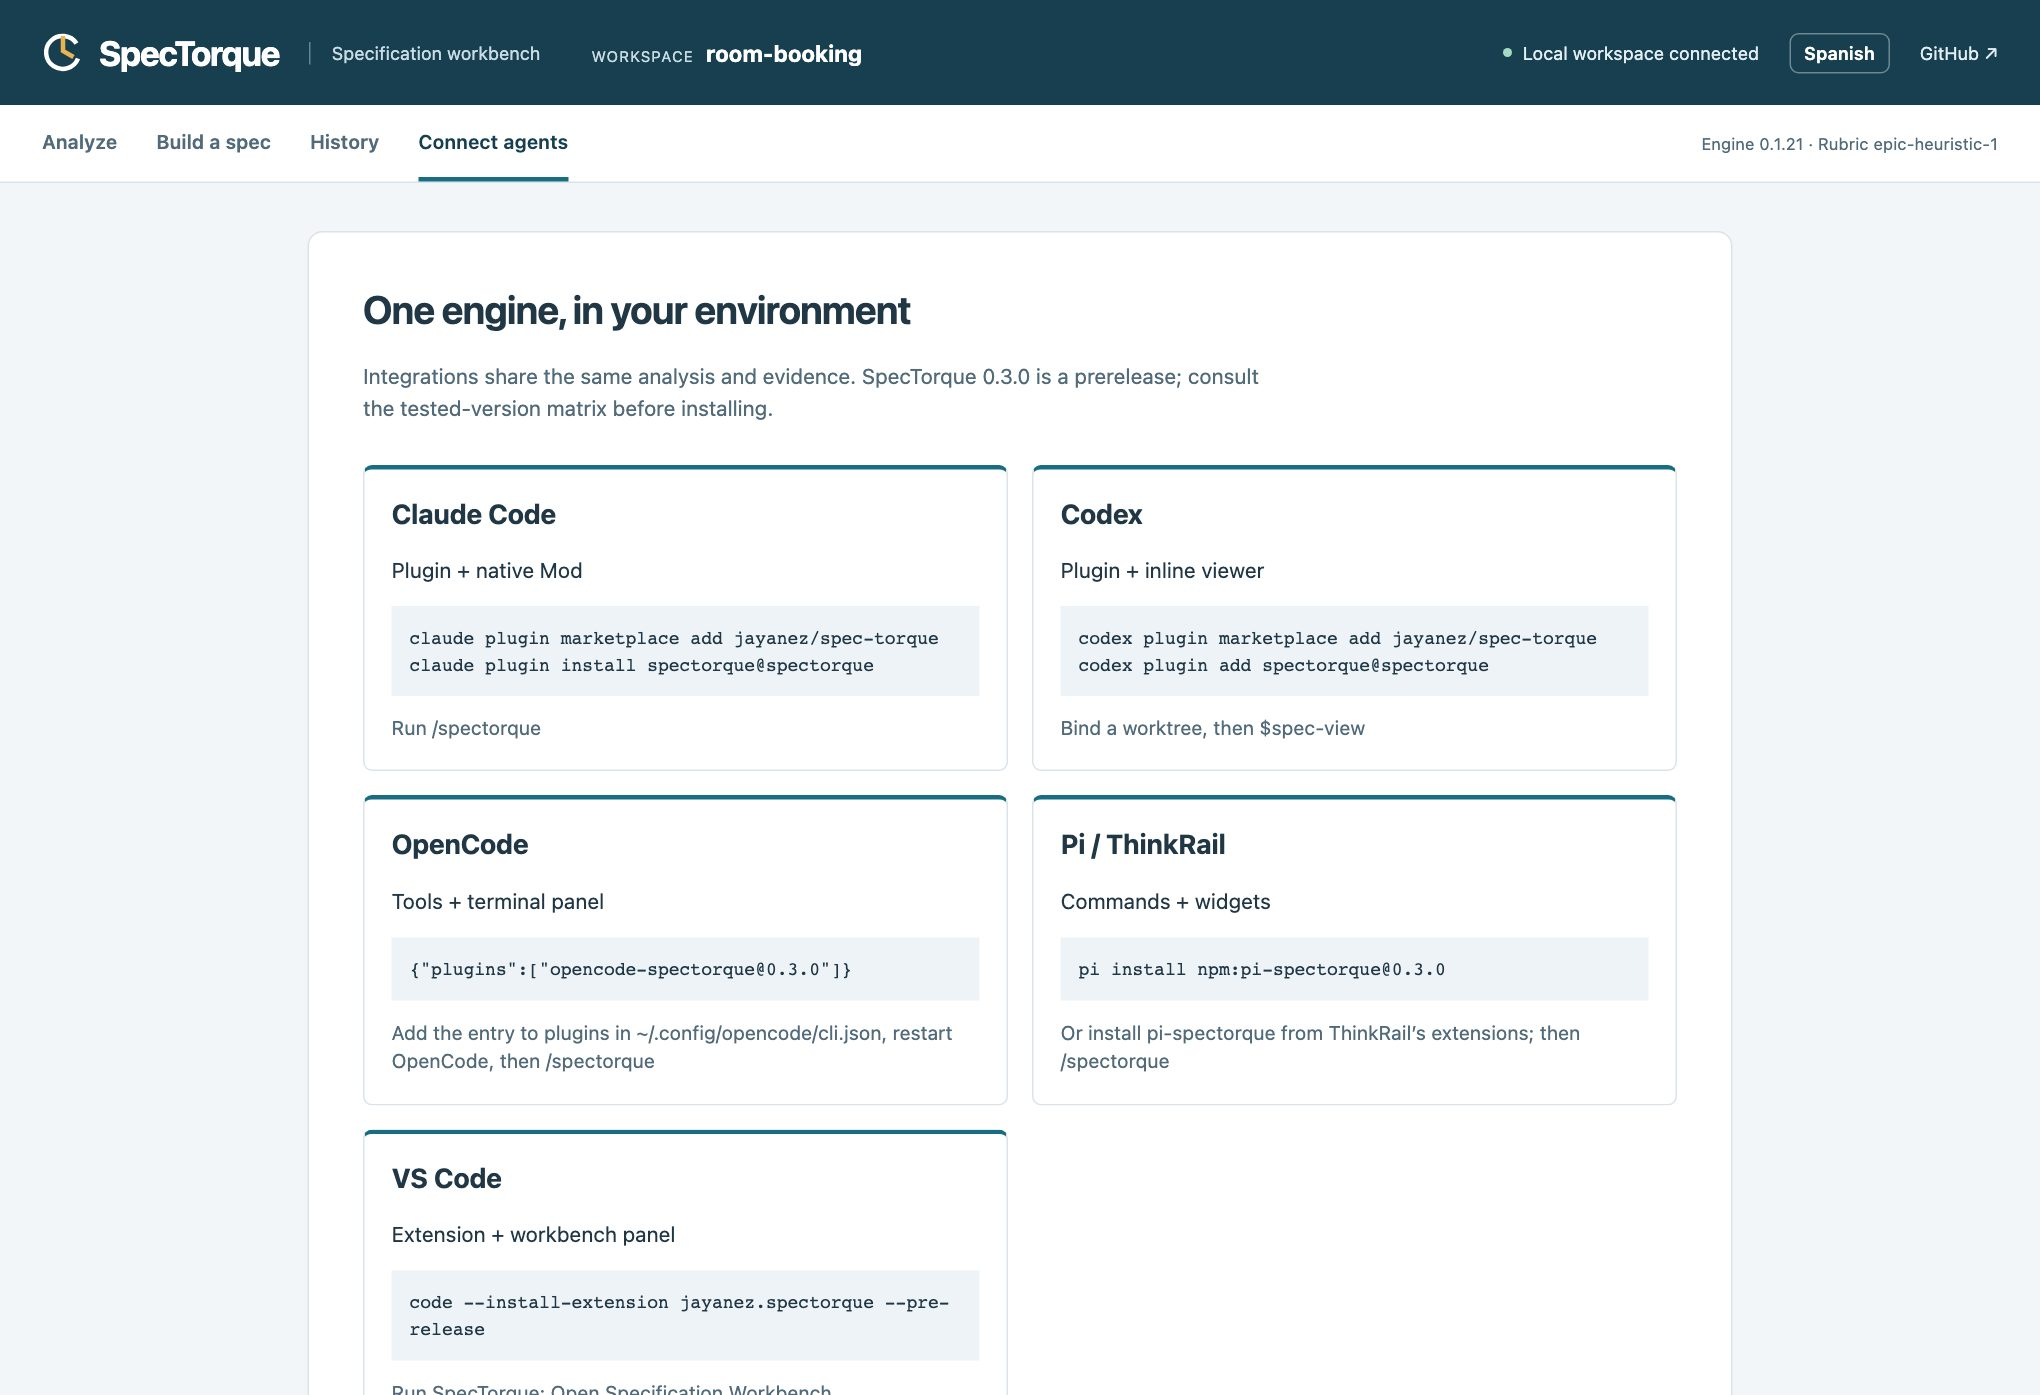
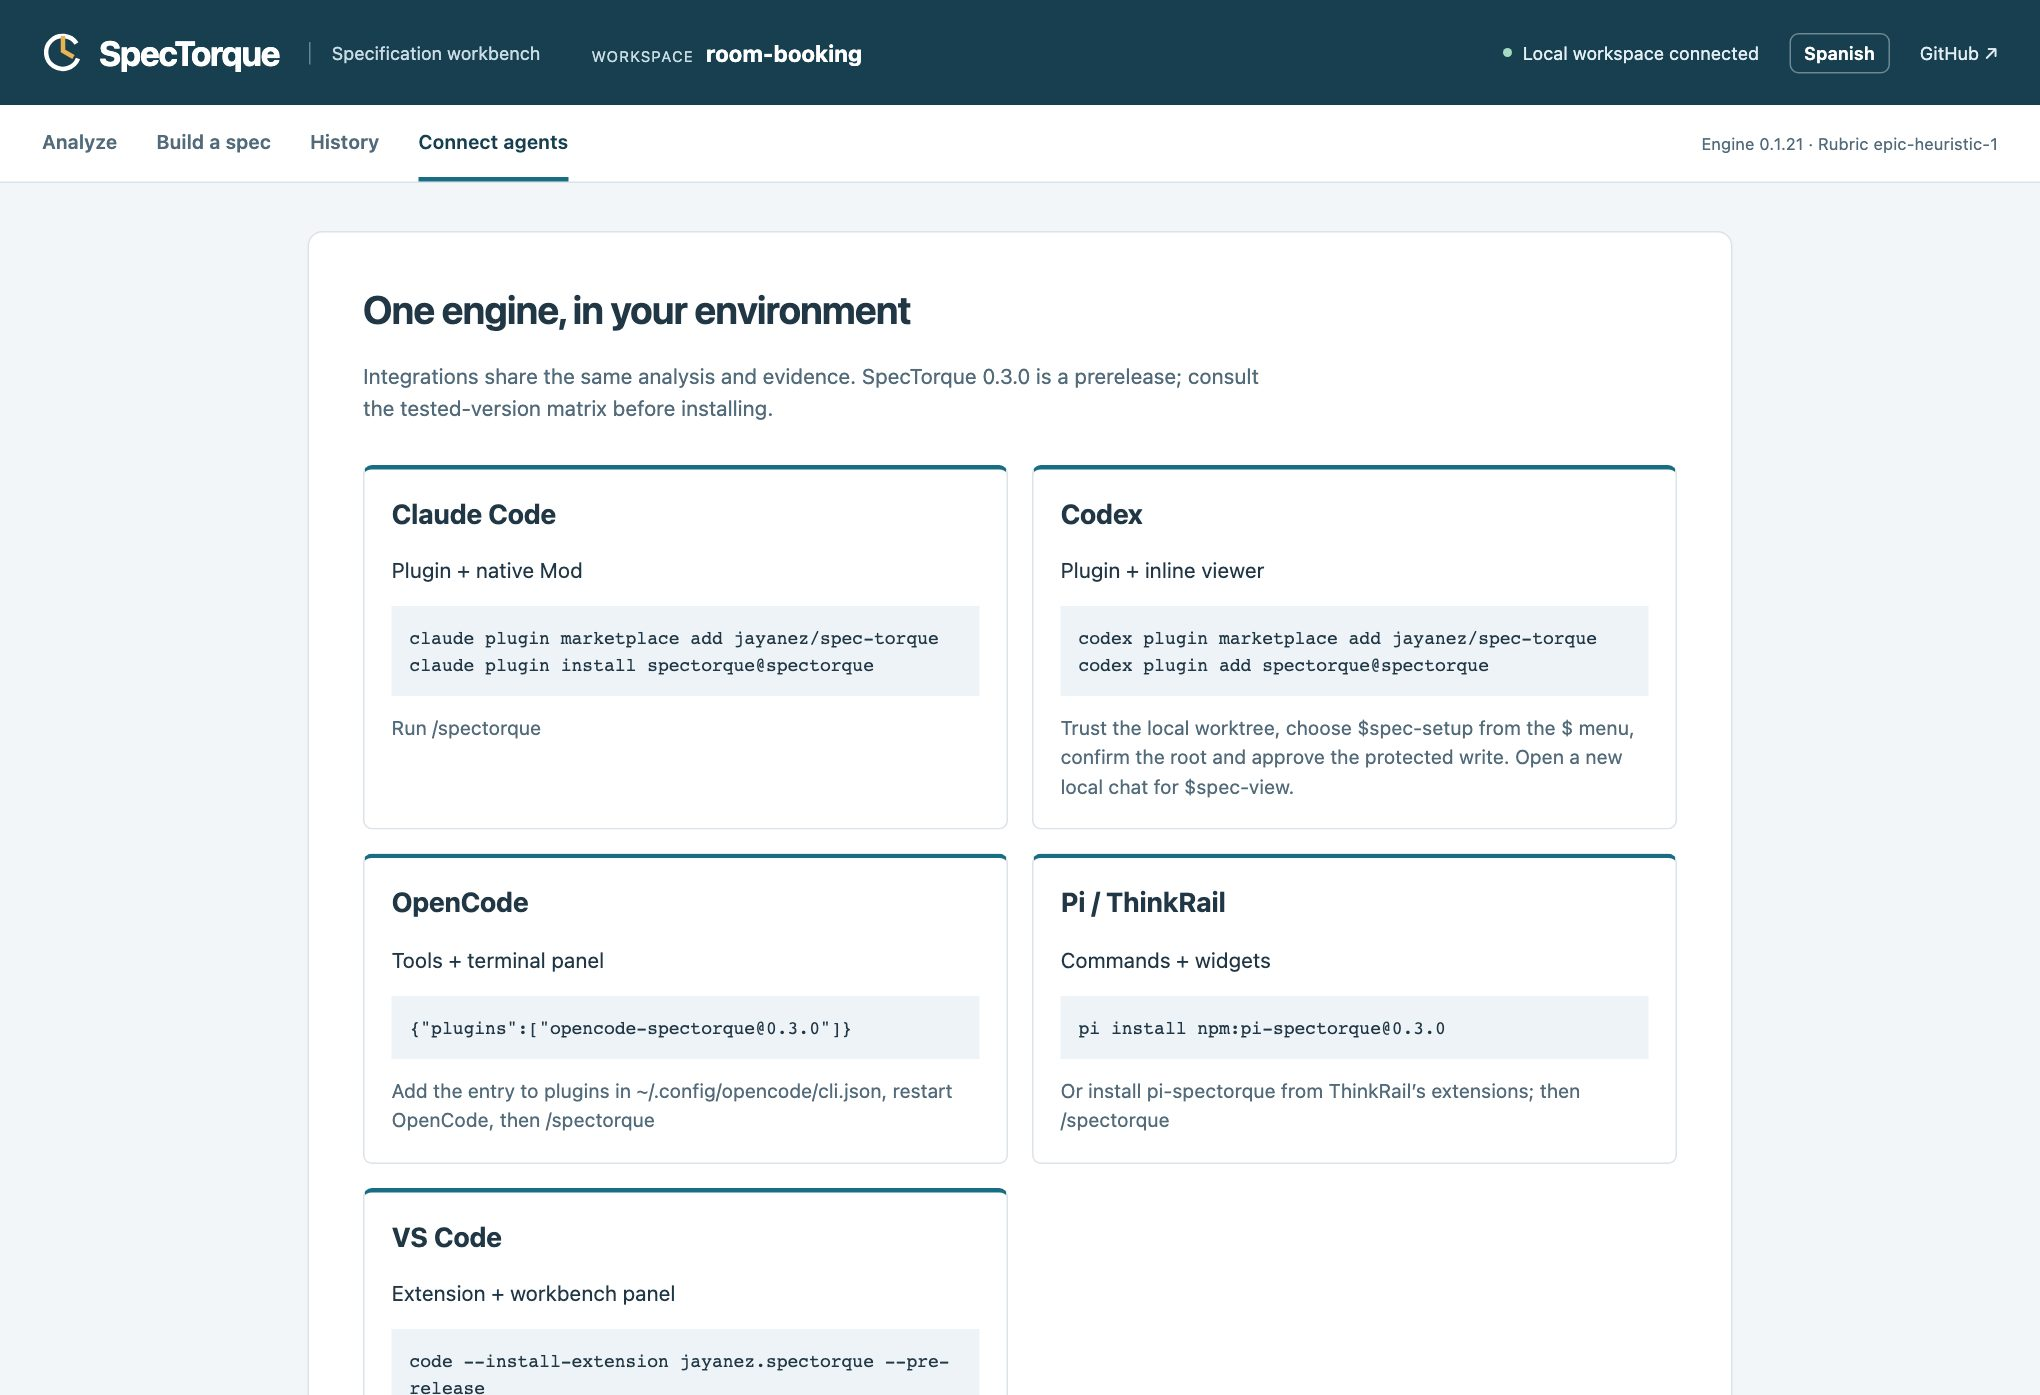
docs(codex): record the verified Desktop onboarding flow

Changed region(s): [[0.1853, 0.4932, 0.8029, 0.8939], [0.1853, 0.9247, 0.4632, 1.0]]

diff --git a/tests/browser/workbench.spec.ts b/tests/browser/workbench.spec.ts
@@ -680,7 +680,7 @@ test('Connect agents shows the released install commands for each host in both l
   const card = (host: string) => view.getByRole('article', { name: host, exact: true });
   await expect(card('Claude Code')).toContainText('claude plugin marketplace add jayanez/spec-torque\nclaude plugin install spectorque@spectorque');
   await expect(card('Codex')).toContainText('codex plugin marketplace add jayanez/spec-torque\ncodex plugin add spectorque@spectorque');
-  await expect(card('Codex')).toContainText('Run $spec-setup, then $spec-view in a new local chat');
+  await expect(card('Codex')).toContainText('Trust the local worktree, choose $spec-setup from the $ menu, confirm the root and approve the protected write. Open a new local chat for $spec-view.');
   await expect(card('OpenCode')).toContainText('{"plugins":["opencode-spectorque@' + PRODUCT_VERSION + '"]}');
   await expect(card('OpenCode')).toContainText('~/.config/opencode/cli.json');
   await expect(card('Pi / ThinkRail')).toContainText('pi install npm:pi-spectorque@' + PRODUCT_VERSION);
@@ -691,7 +691,7 @@ test('Connect agents shows the released install commands for each host in both l
   expect((await new AxeBuilder({ page }).include('main:not([hidden]) .integration-grid').analyze()).violations).toEqual([]);
   await page.getByRole('button', { name: 'Switch to Spanish', exact: true }).click();
   await expect(view.getByRole('heading', { level: 1 })).toHaveText('El mismo motor, en tu entorno');
-  await expect(card('Codex')).toContainText('Ejecuta $spec-setup y luego $spec-view en un chat local nuevo');
+  await expect(card('Codex')).toContainText('Confía en el worktree local, elige $spec-setup en el menú $, confirma la raíz y autoriza la escritura protegida. Abre un chat local nuevo para $spec-view.');
   await expect(card('VS Code')).toContainText('Extensión + banco de trabajo');
   await expect(page.getByText('Desde npm, en cualquier cliente MCP:', { exact: true })).toBeVisible();
   for (const text of ['From npm, in any MCP client:', 'Run /spectorque', 'Commands + widgets']) await expect(page.getByText(text, { exact: true })).toHaveCount(0);

diff --git a/src/web/Connect.tsx b/src/web/Connect.tsx
@@ -11,7 +11,10 @@ const hosts: Host[] = [
     then: ['Run /spectorque', 'Ejecuta /spectorque'] },
   { name: 'Codex', surface: ['Plugin + inline viewer', 'Plugin + visor integrado'],
     install: ['codex plugin marketplace add jayanez/spec-torque', 'codex plugin add spectorque@spectorque'],
-    then: ['Run $spec-setup, then $spec-view in a new local chat', 'Ejecuta $spec-setup y luego $spec-view en un chat local nuevo'] },
+    then: [
+      'Trust the local worktree, choose $spec-setup from the $ menu, confirm the root and approve the protected write. Open a new local chat for $spec-view.',
+      'Confía en el worktree local, elige $spec-setup en el menú $, confirma la raíz y autoriza la escritura protegida. Abre un chat local nuevo para $spec-view.',
+    ] },
   { name: 'OpenCode', surface: ['Tools + terminal panel', 'Herramientas + panel de terminal'],
     install: [JSON.stringify({ plugins: ['opencode-spectorque@' + PRODUCT_VERSION] })],
     then: ['Add the entry to plugins in ~/.config/opencode/cli.json, restart OpenCode, then /spectorque', 'Añade la entrada a plugins en ~/.config/opencode/cli.json, reinicia OpenCode y luego /spectorque'] },

diff --git a/docs/codex-desktop-probe.md b/docs/codex-desktop-probe.md
@@ -159,7 +159,16 @@ The legacy plugin probe ran on macOS 27.2.1 arm64 with Codex Desktop `26.1120.50
 - With no `cwd`, the probe received the correct root in each of two linked worktrees and when returning to the first chat. With an explicit control `cwd`, both processes received the control directory. In Desktop turns, the workspaces metadata matched the active worktree under both variants. The no-turn app-server control had no such metadata. Neither run advertised MCP roots or reported `sandboxCwd`. The probe did not request the experimental sandbox-state capability.
 - Cancelling the trust prompt left the new folder unregistered. When the two disposable folders were marked untrusted and opened with **Open restricted**, the plugin still ran and received each active root. The observed metadata did not establish project trust. This supports choosing explicit project onboarding in [#117](https://github.com/jayanez/spec-torque/issues/117).
 
-The separate onboarding control used the app's bundled `0.171.0-alpha.13.2` app-server over stdio, in a temporary trusted project. Its first tool inventory had no `open_spectorque`. After the packaged `--check` and `--write` commands, the inventory included the tool in the same thread and in a new thread, with no explicit reload and no model turn. This control did not exercise the Desktop Setup button, the protected-path prompt, or tool availability in an existing Desktop conversation. The user-facing steps use a new chat.
+The separate onboarding control used the app's bundled `0.171.0-alpha.13.2` app-server over stdio, in a temporary trusted project. Its first tool inventory had no `open_spectorque`. After the packaged `--check` and `--write` commands, the inventory included the tool in the same thread and in a new thread, with no explicit reload and no model turn. This was a protocol control. The native result below differs for the existing chat.
+
+## Native onboarding (2026-11-28, issue #117)
+
[1 lines of base64/hex data omitted]
+
+- **Entry point.** The manifest registered `onboardingSkill`. The tested plugin page showed **Settings** and **Try now**, with no **Setup** button. **Try now** opened a chat with the plugin selected in the composer and sent no message. Selecting **Spectorque: Spec Setup** from the `$` menu invoked the skill.
+- **Approval and idempotence.** The skill showed the canonical root and MCP block. Declining left `.codex/config.toml` absent. After explicit chat approval and the user's one-time protected-path approval, the file contained one correct binding and no temporary files remained. The exact prompt text was not captured. A repeat reported `configured` without requesting write approval and preserved the config hash and modification time. The environment file remained byte-identical throughout.
+- **Viewer.** The original chat had no `open_spectorque` call or viewer after the write. A new local chat in the same worktree called the candidate runtime and rendered the assessment for that root. The profile had other SpecTorque installs and showed two identical **Spectorque: Spec View** entries, so the exact viewer skill selected is unknown. The verified binding identified the MCP runtime that served the result.
+- **Scope.** The candidate was installed through a local marketplace via the CLI. A fresh Desktop profile, installation from the Desktop store, custom TOML and repair after a runtime upgrade were outside the native run. The app-server, package and browser checks are separate evidence from the observed Desktop workflow.
 
 ## Clean up
 

diff --git a/integrations/codex/README.md b/integrations/codex/README.md
@@ -26,8 +26,10 @@ The package includes the inline viewer, project MCP server, skills and local wor
    ```
 
 2. For the offline route, run `codex plugin marketplace add .` and `codex plugin add spectorque@spectorque-local --json` from that marketplace root. Either route supplies the skills. The MCP connection comes from the trusted project.
-3. In Codex Desktop, open a local chat for the worktree and trust the folder. Invoke `$spec-setup` explicitly in that chat. Codex also documents a plugin **Setup** entry point after installation. Native qualification of that button for this package is pending. Confirm the displayed Git root, review the proposed `spectorque-workspace` block, and approve the write to `.codex/config.toml` when requested. Setup reports when the binding already matches the installed plugin and updates obsolete Node or runtime paths after approval. Invalid TOML and custom layouts that setup cannot validate are left for manual repair.
-4. Open a new local chat in the same worktree and type `$spec-view` (optionally `$spec-view specs/001-booking` or `$spec-view changed`). The skill calls the read-only `open_spectorque` tool in the project MCP server. It takes one model turn. The inline viewer opens with **All documents** and supports feature selection and exact source evidence.
+3. In Codex Desktop, open the local worktree and trust the folder. In a local chat, type `$` and choose **Spectorque: Spec Setup** (`$spec-setup`). Confirm the displayed Git root and review the proposed `spectorque-workspace` block. Approve the write to the protected `.codex/config.toml` when prompted. Setup reports when the binding already matches the installed plugin and updates obsolete Node or runtime paths after approval. Invalid TOML and custom layouts that setup cannot validate are left for manual repair.
+4. Once setup finishes, open a new local chat in the same worktree and invoke `$spec-view` from the `$` menu (optionally `$spec-view specs/001-booking` or `$spec-view changed`). The skill calls the read-only `open_spectorque` tool in the project MCP server. It takes one model turn. The inline viewer opens with **All documents** and supports feature selection and exact source evidence.
+
+If you just ran setup and `open_spectorque` is unavailable in that chat, open a new local chat in the same worktree. Multiple installed copies of SpecTorque can show identical entries in the `$` menu. In **Plugins**, keep the intended copy enabled for this walkthrough. [Desktop qualification](../../docs/codex-desktop-probe.md#native-onboarding-2026-11-28-issue-117)
 
 For manual setup or the workbench action, run `node /path/to/installed/plugin/setup-workspace.mjs /path/to/trusted/worktree [feature-id]`, quoting paths as needed. The script prints the project MCP block, environment action and terminal fallback. If you set up the viewer manually, merge the MCP block into `.codex/config.toml` and replace any earlier block for that server. For the action, create `.codex/environments/environment.toml` with the printed content, or merge the printed action into the existing file and keep the other actions and setup script. The skill can also show that action for manual setup. Bind each worktree separately, including linked worktrees. With a feature ID, the action and fallback open on that feature. On Windows the script prints the terminal fallback and omits the environment action.
 

diff --git a/docs/es.md b/docs/es.md
@@ -64,7 +64,9 @@ Los refinamientos conservan literalmente las cláusulas negativas detectadas, sa
 
 ## Visor de Codex Desktop
 
-Genera el ZIP con `npm run check`, `npm run package:integrations` y `npm run package:codex`. `npm run verify:codex-package` comprueba el paquete fuera del checkout. Instala el ZIP desde un marketplace local. En un chat local del worktree, confía en la carpeta e invoca `$spec-setup`. El plugin también registra el botón **Setup** documentado por Codex, pendiente de cualificación nativa para este paquete. Confirma la raíz que se muestra, revisa el bloque MCP y autoriza la escritura en `.codex/config.toml` cuando se te pida. Abre un chat local nuevo para usar `$spec-view`. Después de actualizar el plugin o Node, vuelve a ejecutar `$spec-setup` para reparar las rutas si hace falta.
+Genera el ZIP con `npm run check`, `npm run package:integrations` y `npm run package:codex`. `npm run verify:codex-package` comprueba el paquete fuera del checkout. Instala el ZIP desde un marketplace local. Abre el worktree local y confía en la carpeta. En un chat local, escribe `$` y elige **Spectorque: Spec Setup** (`$spec-setup`). Confirma la raíz que se muestra, revisa el bloque MCP y autoriza la escritura protegida en `.codex/config.toml` cuando se te pida. Abre un chat local nuevo en el mismo worktree y elige `$spec-view`. Después de actualizar el plugin o Node, vuelve a ejecutar `$spec-setup` para reparar las rutas si hace falta.
+
+Si acabas de configurar el worktree y `open_spectorque` no aparece en ese chat, abre un chat local nuevo en el mismo worktree. Si el menú `$` muestra entradas idénticas, comprueba en **Plugins** qué copias de SpecTorque están habilitadas y deja activa la que quieras usar. [Prueba nativa en Desktop](codex-desktop-probe.md#native-onboarding-2026-11-28-issue-117)
 
 Para configurar la acción de entorno, usa el bloque que muestra la skill o que imprime `setup-workspace.mjs`. Incorpóralo a `.codex/environments/environment.toml` conservando las demás acciones y el script de setup. Si el archivo aún no existe, el script imprime su contenido completo. En Windows imprime el comando para terminal. La configuración manual del MCP usa el mismo script y el bloque que imprime. Vincula cada worktree por separado. Para retirar la integración, detén el workbench, elimina los bloques de SpecTorque y desinstala el plugin o marketplace de prueba. [Guía del paquete](../integrations/codex/README.md)
 

diff --git a/docs/integrations.md b/docs/integrations.md
@@ -39,7 +39,7 @@ Official references: [Mods](https://code.claude.com/docs/en/plugins/mods/create)
 
 ## Codex Desktop
 
-Install from this repository's marketplace with `codex plugin marketplace add jayanez/spec-torque` and `codex plugin add spectorque@spectorque` (or from `/plugins` inside Codex), then invoke `$spec-setup` in a local chat for the trusted worktree. The plugin also registers the documented **Setup** entry point, with native qualification of that button pending. Confirm the root and approve the project configuration write when prompted. Open a new local chat to use `$spec-view`. [Bind or repair a worktree](../integrations/codex/README.md#install-and-bind-a-worktree). The catalog installs the `spectorque-codex` npm package.
+Install from this repository's marketplace with `codex plugin marketplace add jayanez/spec-torque` and `codex plugin add spectorque@spectorque` (or from `/plugins` inside Codex), open the local worktree, and trust the folder. In a local chat, choose `$spec-setup` from the `$` menu, confirm the displayed root, and approve the protected project configuration write when prompted. Open a new local chat in the same worktree to use `$spec-view`. [Bind or repair a worktree](../integrations/codex/README.md#install-and-bind-a-worktree). The catalog installs the `spectorque-codex` npm package.
 
 From a checkout: Build the viewer ZIP with `npm run check`, `npm run package:integrations` and `npm run package:codex`. Verify the package with `npm run verify:codex-package`. The ZIP bundles the project MCP runtime, the inline resource, the skills (the shared ones plus Codex-only ones such as `spec-view`) and the loopback workbench. Follow the [package guide](../integrations/codex/README.md) for local marketplace installation, binding a trusted worktree, upgrade and removal.
 

diff --git a/CHANGELOG.md b/CHANGELOG.md
@@ -2,7 +2,7 @@
 
 ## Unreleased
 
-- Codex Desktop (#117): invoke `$spec-setup` to bind a trusted worktree without a terminal step. The plugin also registers the documented Setup entry point, pending native qualification. Review and approve the project MCP block before the skill writes it. Setup also checks and repairs obsolete paths after an update. The workbench environment action remains a separate opt-in.
+- Codex Desktop (#117): invoke `$spec-setup` to bind a trusted worktree without a terminal step. Choose it from the `$` menu, confirm the root, and approve the protected MCP write. Then open a new local chat for `$spec-view`. Setup also checks and repairs obsolete paths after an update. The workbench environment action remains a separate opt-in.
 
 - Codex Desktop (#116): open the local workbench from the **Project** command palette without a model turn, or use the optional `$spec-workbench` skill. Worktree setup prints the environment action without editing files. [Desktop observations](docs/codex-desktop-probe.md#workbench-launch-in-codex-desktop-2026-11-28-issue-116)
 
